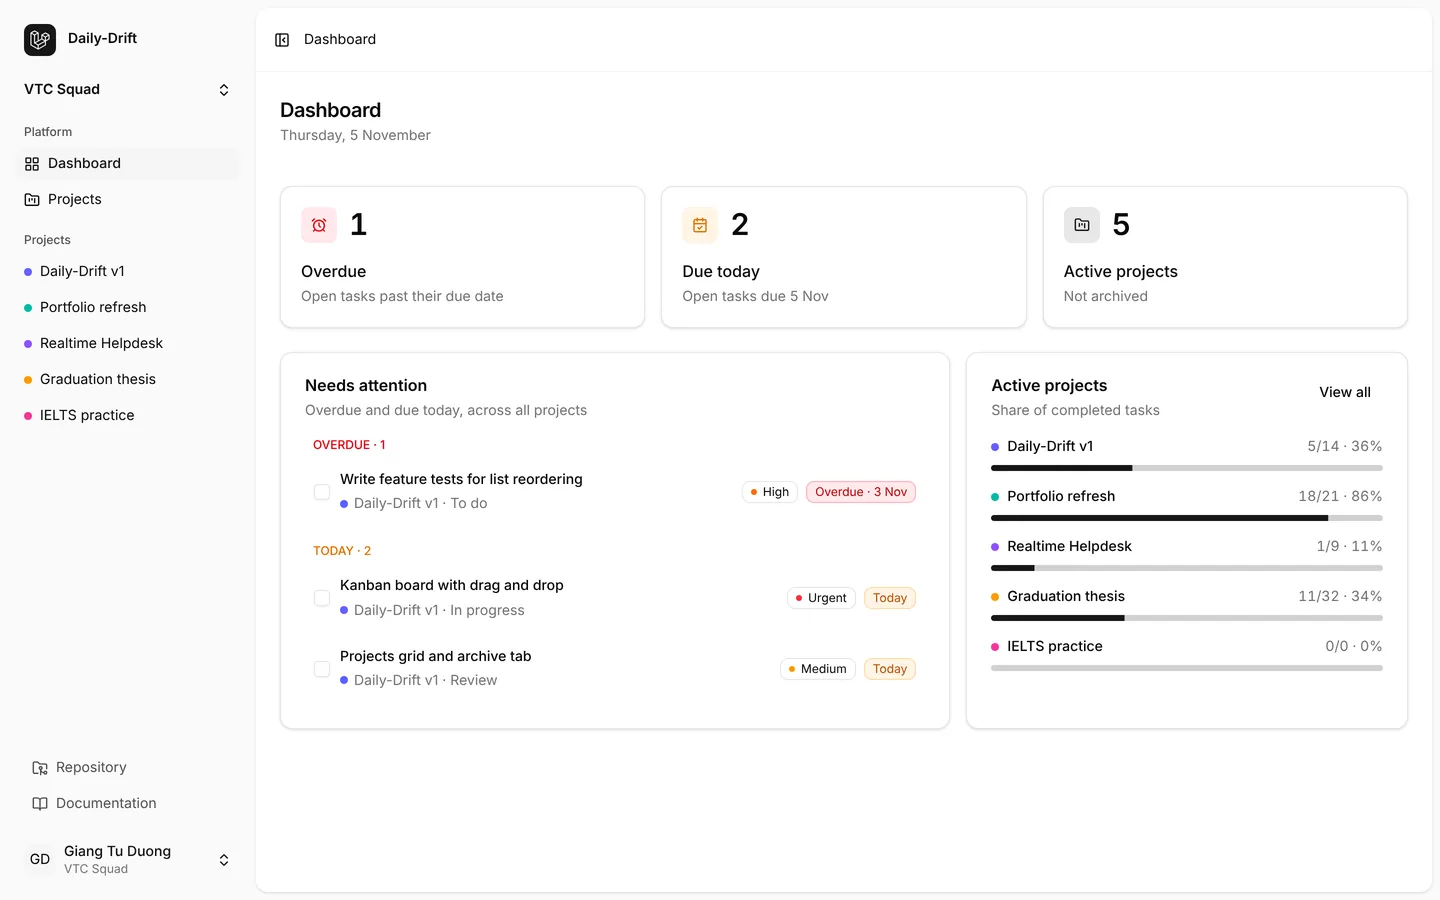
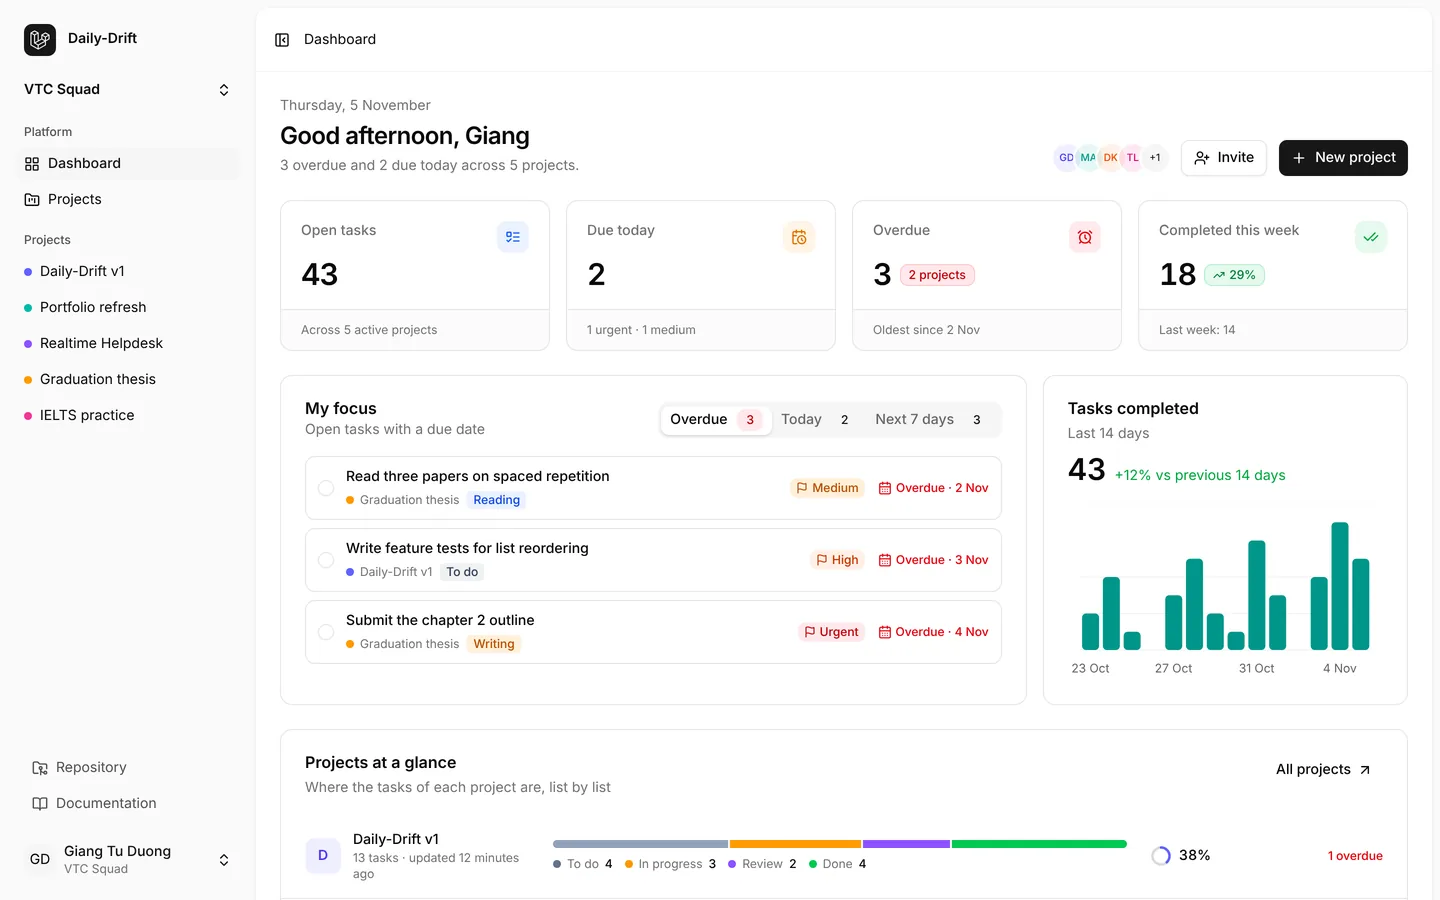
Redesign the Phase 1 screens with color-coded projects and lists
- Dashboard: greeting header, stat cards with context footers, a focus
  list with overdue, today and next-7-days tabs, a 14-day completion
  chart and a per-project segmented bar of tasks by list.
- Projects: cards with a hue gradient, small stats, progress in the
  project's hue and contributors; the new project dialog previews the
  color and the default lists.
- Board: columns tinted by list color with a progress ring, richer task
  cards (description, priority flag, due date, creator), and summary
  chips in the header; the task sheet groups properties in one panel.
- Spec 0001: lists get a color, and the dashboard gains completion
  stats and the per-list breakdown.
- Sources table separates code taken from free items from layout ideas
  seen in paid previews.

Claude-Session: https://claude.ai/code/session_019k6DGoaYH8j9pSYLMNXKwK

diff --git a/docs/design/README.md b/docs/design/README.md
@@ -1,14 +1,15 @@
 # Design
 
-**Status:** Phase 1 designed. The screenshots come from a prototype built with the installed components and sample data, in the app's own theme.
+**Status:** Phase 1 designed (second version). The screenshots come from a prototype built with the installed components and sample data, in the app's own theme.
 
 ## Principles
 
-- Keep the starter kit's shell: inset sidebar that collapses to icons, team switcher, breadcrumbs, light and dark themes.
-- Use shadcn/ui components first. Take a block from another source only when it saves real work, and adapt it to these components.
-- Color is never the only signal: priorities and due states always carry a text label.
+- Keep the starter kit's shell (inset sidebar that collapses to icons, team switcher, breadcrumbs, light and dark themes) and put the effort into the pages.
+- Color carries meaning, not decoration: every project and every list has a hue from one palette, and that hue tints its tile, column, pills and progress.
+- A card or row answers "what, where, how urgent, who" at a glance: title, project or list, priority, due date and the person behind it.
+- Color is never the only signal: priorities, due states and lists always carry a text label.
 - Every action works with the keyboard, including drag and drop.
-- Phones get the same features: boards scroll sideways one column at a time, and the task sheet fills the screen.
+- Phones get the same features: stat cards fall into two columns, boards scroll sideways one column at a time, and the task sheet fills the screen.
 
 ## App shell
 
@@ -22,32 +23,35 @@
 
 ![Dashboard](phase-1/dashboard.webp)
 
-- Three stat cards: overdue open tasks, open tasks due today, active projects. On phones they sit in one row and drop the hint line.
-- **Needs attention:** overdue and due-today tasks across the team, grouped under _Overdue_ and _Today_. The checkbox completes a task; the row opens the task sheet on its board.
-- **Active projects:** progress per project (completed ÷ all tasks), linking to each board.
+- **Greeting header:** date, "Good afternoon, {first name}", a one-line summary ("3 overdue and 2 due today across 5 projects"), team member avatars, _Invite_ (opens the kit's invite dialog) and _New project_.
+- **Stat cards:** open tasks, due today, overdue, completed this week. Each card has a colored icon tile, a badge where a comparison helps (overdue spread over projects, change against last week), and a footer line with context.
+- **My focus:** open tasks with a due date, in tabs _Overdue_, _Today_ and _Next 7 days_ with counts. Each row: round checkbox, title, project dot and name, list pill in the list's color, priority and due date.
+- **Tasks completed:** total for the last 14 days, change against the 14 days before, and a bar per day.
+- **Projects at a glance:** one row per active project with its tile, a segmented bar of tasks per list in the list colors (with a legend and counts), a progress ring and either the overdue count or the next due date.
 
 ### Projects
 
 ![Projects](phase-1/projects.webp)
 
-- Tabs for _Active_ and _Archived_, with counts.
-- Project cards: color tile, name, two-line description, progress bar, task and list counts, last update. The card links to the board; the menu holds _Edit_, _Archive_ (or _Restore_) and _Delete_.
-- _New project_ appears in the header and as a dashed card at the end of the grid.
+- Header with the count of active boards and _New project_; tabs _Active_ and _Archived_ with counts; a name filter.
+- **Project card:** a soft gradient in the project's hue, a letter tile, name and last update, a menu (_Edit_, _Archive_ or _Restore_, _Delete_), a two-line description, three small stats (open, due in the next 7 days, overdue in red when not zero), progress in the project's hue, and a footer with the people who created its tasks and the next due date.
+- A dashed _New project_ card closes the grid.
 - Members see no create, edit, archive or delete controls; admins see no _Delete_ (see the permissions in [spec 0001](../spec/0001-projects-lists-tasks.md#permissions)).
 
 ![New project dialog](phase-1/project-new.webp)
 
-- Dialog with name, optional description and a color picker (ten swatches, one selected). The description says the project starts with three lists.
+- The dialog header takes the chosen color, so the tile previews the project. Fields: name, optional description, ten color swatches; the default lists are shown as pills in their colors.
 - _Edit_ reuses the same dialog.
 
 ### Project board
 
 ![Project board](phase-1/board.webp)
 
-- Header: color dot, name, description, overall progress and a project menu.
-- Columns are lists: name, task count, list progress, a menu (_Rename_, _Delete list_) and a drag handle that appears on hover or focus.
-- Task cards: completion checkbox, title (struck through when complete), priority badge, due badge (_Overdue · 3 Nov_ in red, _Today_ in amber, a plain date otherwise) and an icon when the task has a description.
-- _Add task_ at the bottom of each column opens an inline title field; _Add list_ sits after the last column.
+- **Header:** tile, name and description; team avatars, _New task_ (adds to the first list) and a project menu (_Edit project_, _Add list_, _Archive_, _Delete project_).
+- **Summary chips:** total tasks, done, overdue (red), due today (amber), and overall progress in the project's hue.
+- **Columns** are tinted with the list's hue. The header shows a progress ring (share of completed tasks in that list), the name and a count pill; it is also the drag handle for reordering lists. Buttons add a task or open the list menu (_Rename_, _Change color_, _Delete list_).
+- **Task cards:** round checkbox (green when complete), title, two-line description, priority pill with a flag, due date (red _Overdue · 3 Nov_, amber _Today_, plain date otherwise) and the creator's avatar. Completed cards drop the description and priority and strike the title.
+- _Add task_ at the bottom of each column opens an inline title field (Enter adds, Escape cancels). A dashed _Add list_ sits after the last column.
 - Dragging shows the card under the pointer and a gap where it will land. When it is dropped, the client sends the target list and index, and the server rewrites positions in one transaction (spec 0001). If the request fails, the board rolls back and shows a toast.
 - Archived projects show a read-only banner with _Restore_, and dragging is disabled.
 
@@ -58,8 +62,9 @@
 ![Task detail sheet](phase-1/task-sheet.webp)
 
 - A sheet from the right, opened by clicking a card. The URL gets `?task={id}`, so the dashboard can link straight to a task.
-- Editable title, _Mark complete_, list (moving it here puts it at the end of that list), priority, due date (calendar popover), creator and creation date, plain-text description.
-- Footer: _Delete_ (with confirmation), _Cancel_, _Save_.
+- Header: project and list pill, editable title, _Mark complete_ as a round toggle, last update.
+- Properties in one bordered panel, each row with an icon: list (moving it here puts the task at the end of that list), priority (flag in its color), due date (calendar popover, with a _Today_ marker), created by.
+- Plain-text description, then _Delete_ (with confirmation), _Cancel_ and _Save changes_.
 
 ### Phones
 
@@ -69,45 +74,46 @@
 
 ## Tokens
 
-| Token         | Values                                                                                     |
-| ------------- | ------------------------------------------------------------------------------------------ |
-| Project color | `slate`, `red`, `orange`, `amber`, `green`, `teal`, `blue`, `indigo`, `violet`, `pink`     |
-| Priority      | `none` (no badge), `low` sky, `medium` amber, `high` orange, `urgent` red; always labelled |
-| Due state     | overdue: red badge with "Overdue"; today: amber "Today"; later: neutral date; done: muted  |
+| Token     | Values                                                                                                         |
+| --------- | -------------------------------------------------------------------------------------------------------------- |
+| Hue       | `slate`, `red`, `orange`, `amber`, `green`, `teal`, `blue`, `indigo`, `violet`, `pink`; for projects and lists |
+| Priority  | `none` (no pill), `low` sky, `medium` amber, `high` orange, `urgent` red; a flag icon and a label              |
+| Due state | overdue: red with "Overdue"; today: amber "Today"; later: neutral date; completed: muted                       |
 
-The color names are the values stored in `projects.color`; the UI maps them to Tailwind classes.
+Each hue maps to a fixed set of Tailwind classes (dot, tile, column tint, pill, bar, ring stroke). The names are what `projects.color` and `task_lists.color` store.
 
 ## Components by screen
 
-| Screen       | shadcn/ui components                                                | Blocks and outside components                                                    |
-| ------------ | ------------------------------------------------------------------- | -------------------------------------------------------------------------------- |
-| App shell    | `sidebar`, `breadcrumb`                                             | From the starter kit                                                             |
-| Dashboard    | `card`, `item`, `checkbox`, `badge`, `progress`, `button`           | Stat cards adapted from shadcn/studio `statistics-component-01`                  |
-| Projects     | `card`, `tabs`, `badge`, `progress`, `dropdown-menu`, `dialog`      | Delete confirmation from shadcn/studio `dashboard-dialog-22`                     |
-| Board        | `button`, `badge`, `checkbox`, `progress`, `dropdown-menu`, `input` | ReUI `kanban`; patterns from ReUI `c-kanban-5`, `c-kanban-6`, Shadcn Space below |
-| Task detail  | `sheet`, `select`, `popover`, `calendar`, `textarea`, `separator`   | None                                                                             |
-| Empty states | `empty`                                                             | Adapted from ReUI `c-empty-12`                                                   |
-| Feedback     | `sonner`                                                            | None                                                                             |
+| Screen       | shadcn/ui components                                                        | Blocks and patterns                                                                                       |
+| ------------ | --------------------------------------------------------------------------- | --------------------------------------------------------------------------------------------------------- |
+| App shell    | `sidebar`, `breadcrumb`                                                     | From the starter kit                                                                                      |
+| Dashboard    | `card`, `badge`, `tabs`, `checkbox`, `chart`, `avatar`, `tooltip`, `button` | ShadcnUIKit _Stat Card 1_ and _Todo App 1_ (adapted); segmented bar after ShadcnUIKit _Stat Card 2_       |
+| Projects     | `tabs`, `badge`, `input`, `dropdown-menu`, `dialog`, `avatar`, `tooltip`    | Card layout after shadcn/studio _Widget 24_; delete confirmation from shadcn/studio `dashboard-dialog-22` |
+| Board        | `button`, `checkbox`, `dropdown-menu`, `input`, `avatar`, `tooltip`         | ReUI `kanban`; colored columns after Shadcn Space and shadcn/studio kanban boards                         |
+| Task detail  | `sheet`, `select`, `popover`, `calendar`, `textarea`                        | Card layout after ShadcnUIKit _Kanban Board 2_ (task fields)                                              |
+| Empty states | `empty`                                                                     | Adapted from ReUI `c-empty-12`                                                                            |
+| Feedback     | `sonner`                                                                    | None                                                                                                      |
+
+The progress ring, segmented bar and hue bar are small local components built for this design.
 
 ## Sources
 
-Only free items, in their Radix versions.
+Code is taken only from free items, in their Radix versions. Paid blocks were looked at for layout ideas only; none of their code is used.
 
-| Source                                    | License                                                         | Used                                                                                                                                                                                                                                                 |
-| ----------------------------------------- | --------------------------------------------------------------- | ---------------------------------------------------------------------------------------------------------------------------------------------------------------------------------------------------------------------------------------------------- |
-| [shadcn/ui](https://ui.shadcn.com)        | MIT                                                             | All components above.                                                                                                                                                                                                                                |
-| [ReUI](https://reui.io)                   | MIT                                                             | `kanban` component, installed as is. Examples `c-kanban-6` (save on drop with rollback), `c-kanban-5` (progress in the column) and `c-empty-12` (tasks empty state) as patterns. See [ADR 0005](../decisions/0005-reui-kanban-for-drag-and-drop.md). |
-| [shadcn/studio](https://shadcnstudio.com) | MIT with Commons Clause: no resale or redistribution unmodified | `statistics-component-01` (stat card), `dashboard-dialog-22` (destructive confirmation), both adapted.                                                                                                                                               |
-| [Shadcn Space](https://shadcnspace.com)   | Free license; do not present the components as your own         | `kanban-application-01` as the pattern for the inline _Add task_ form.                                                                                                                                                                               |
-| [ShadcnUIKit](https://shadcnuikit.com)    | Paid for the matching blocks                                    | Nothing. The kanban, task-card and stat-card blocks need an account key.                                                                                                                                                                             |
-
-Also paid, so not used: ReUI blocks without the `c-` prefix (for example `kanban-board-*`, `card-21`, `sheet-*`), Shadcn Space `kanban-application-02`, `statistics-03` and `statistics-16`.
+| Source                                    | License of free items                                                  | Code used                                                                                                                                                                     | Ideas from paid previews                                                               |
+| ----------------------------------------- | ---------------------------------------------------------------------- | ----------------------------------------------------------------------------------------------------------------------------------------------------------------------------- | -------------------------------------------------------------------------------------- |
+| [shadcn/ui](https://ui.shadcn.com)        | MIT                                                                    | All components above, including `chart`.                                                                                                                                      | None                                                                                   |
+| [ReUI](https://reui.io)                   | MIT                                                                    | `kanban` component, installed as is ([ADR 0005](../decisions/0005-reui-kanban-for-drag-and-drop.md)); `c-kanban-6` (save on drop with rollback) and `c-empty-12` as patterns. | None                                                                                   |
+| [ShadcnUIKit](https://shadcnuikit.com)    | Free items: personal and commercial use; no redistribution as a UI kit | `stat-card1` (stat card with footer), `todo-app1` (task rows), both adapted.                                                                                                  | _Kanban Board 2_ (task card fields), _Stat Card 2_ (segmented pipeline bar)            |
+| [shadcn/studio](https://shadcnstudio.com) | MIT with Commons Clause: no resale or redistribution unmodified        | `dashboard-dialog-22` (destructive confirmation), adapted.                                                                                                                    | _Widget 24_ (project card with stats and members), _Kanban App 04/05_ (tinted columns) |
+| [Shadcn Space](https://shadcnspace.com)   | Free license; do not present the components as your own                | `kanban-application-01`: status icons in column headers and the inline _Add task_ form, as patterns.                                                                          | `kanban-application-02` (color-coded columns)                                          |
 
 ## Installing from these registries
 
-The shadcn CLI knows all four registries, but this project's `new-york` style does not resolve correctly for two of them:
+The shadcn CLI knows all of these registries, but this project's `new-york` style does not resolve correctly for two of them:
 
 - **ReUI:** `@reui/<name>` with `new-york` returns the Base UI version. Install from `https://reui.io/r/styles/radix-vega/<name>.json` instead (`radix-vega` is the Radix version of the classic shadcn look). The CLI writes the file to `components/reui/` at the repository root; move it to `resources/js/components/reui/`.
 - **shadcn/studio:** rejects `new-york`; use `https://shadcnstudio.com/r/new-york-v4/<name>.json`.
+- **ShadcnUIKit** and **Shadcn Space** serve free items at `https://shadcnuikit.com/r/<name>.json` and `https://shadcnspace.com/r/<name>.json`; paid ones answer with an authentication error.
 
-The first pull request that installs from these registries adds both URLs to `registries` in `components.json`, so `@reui/...` and `@shadcn-studio/...` resolve to the right versions.
+The first pull request that installs from these registries adds the ReUI and shadcn/studio URLs to `registries` in `components.json`, so `@reui/...` and `@shadcn-studio/...` resolve to the right versions (checked with `shadcn view`).

diff --git a/docs/spec/0001-projects-lists-tasks.md b/docs/spec/0001-projects-lists-tasks.md
@@ -32,6 +32,7 @@ Named `task_lists` because `list` is a reserved word in PHP.
 | `id`         | id                     |                             |
 | `project_id` | foreign key → projects | cascade on delete           |
 | `name`       | string(80)             | required                    |
+| `color`      | string(20)             | same palette as projects    |
 | `position`   | unsigned integer       | 0-based order of the column |
 | timestamps   |                        |                             |
 
@@ -53,14 +54,18 @@ Named `task_lists` because `list` is a reserved word in PHP.
 
 ## Behaviour
 
-- **New project:** starts with three lists: _To do_, _In progress_, _Done_.
+- **New project:** starts with three lists: _To do_ (slate), _In progress_ (amber), _Done_ (green). A list added later takes the next unused color; the list menu can change it.
 - **Ordering:** positions are dense and 0-based. When a list or task moves, the server receives the target list and target index, then rewrites the positions of the affected list(s) inside one database transaction. The client never sends positions for other items.
 - **Moving tasks:** a task can move to any list in the same project, never to another project.
 - **Completing:** completion is a checkbox (`completed_at`) and does not depend on the list. Moving a card to _Done_ does not complete it automatically in this phase.
 - **Archiving:** archived projects are read-only and hidden from the main list; they can be restored.
 - **Deleting a list** deletes its tasks; the UI asks for confirmation and shows the task count.
 - **Progress:** list and project progress = completed tasks ÷ all tasks, shown as a percentage. Empty means 0%.
-- **Dashboard:** overdue open tasks, open tasks due today, and active projects with their progress, for the current team.
+- **Dashboard:** for the current team:
+    - counts of open tasks, tasks due today, overdue tasks, and tasks completed in the last 7 days compared with the 7 days before;
+    - open tasks with a due date, grouped as overdue, today and the next 7 days;
+    - tasks completed per day over the last 14 days (from `completed_at`);
+    - active projects with their progress and the number of tasks in each list.
 
 ## Permissions
 
@@ -82,16 +87,17 @@ Under the starter kit's team prefix `/{current_team}`:
 
 - `GET projects`, `POST projects`, `GET projects/{project}`, `PATCH projects/{project}`, `DELETE projects/{project}`
 - `POST projects/{project}/archive`, `DELETE projects/{project}/archive`
-- `POST projects/{project}/lists`, `PATCH lists/{list}`, `PATCH lists/{list}/move`, `DELETE lists/{list}`
+- `POST projects/{project}/lists`, `PATCH lists/{list}` (name and color), `PATCH lists/{list}/move`, `DELETE lists/{list}`
 - `POST lists/{list}/tasks`, `PATCH tasks/{task}`, `PATCH tasks/{task}/move`, `PATCH tasks/{task}/complete`, `DELETE tasks/{task}`
 
 ## Acceptance criteria
 
 - A member sees only projects of teams they belong to; other teams' projects return 404.
-- Creating a project creates the three default lists.
+- Creating a project creates the three default lists with their default colors.
 - Dragging a task to position _n_ of another list stores the new list and leaves both lists with dense positions 0…k.
 - Members cannot create, edit, archive or delete projects; admins cannot delete projects.
 - Progress percentages match the share of completed tasks.
+- Dashboard counts and the completed-per-day series match the tasks of the current team only.
 - Every rule above has a feature test.
 
 ## Out of scope for this spec

diff --git a/docs/changelog/CHANGELOG.md b/docs/changelog/CHANGELOG.md
@@ -7,7 +7,7 @@ Newest first. Dates are in the project's local time (UTC+7).
 ### Added
 
 - Project docs: roadmap, Phase 1 spec, tech stack, architecture decision records and this changelog.
-- Phase 1 UI design: screens with screenshots, components per screen, block sources and their licenses, and [ADR 0005](../decisions/0005-reui-kanban-for-drag-and-drop.md) for drag and drop.
+- Phase 1 UI design: screens with screenshots, color-coded projects and lists, components per screen, block sources and their licenses, and [ADR 0005](../decisions/0005-reui-kanban-for-drag-and-drop.md) for drag and drop.
 
 ### Changed
 
